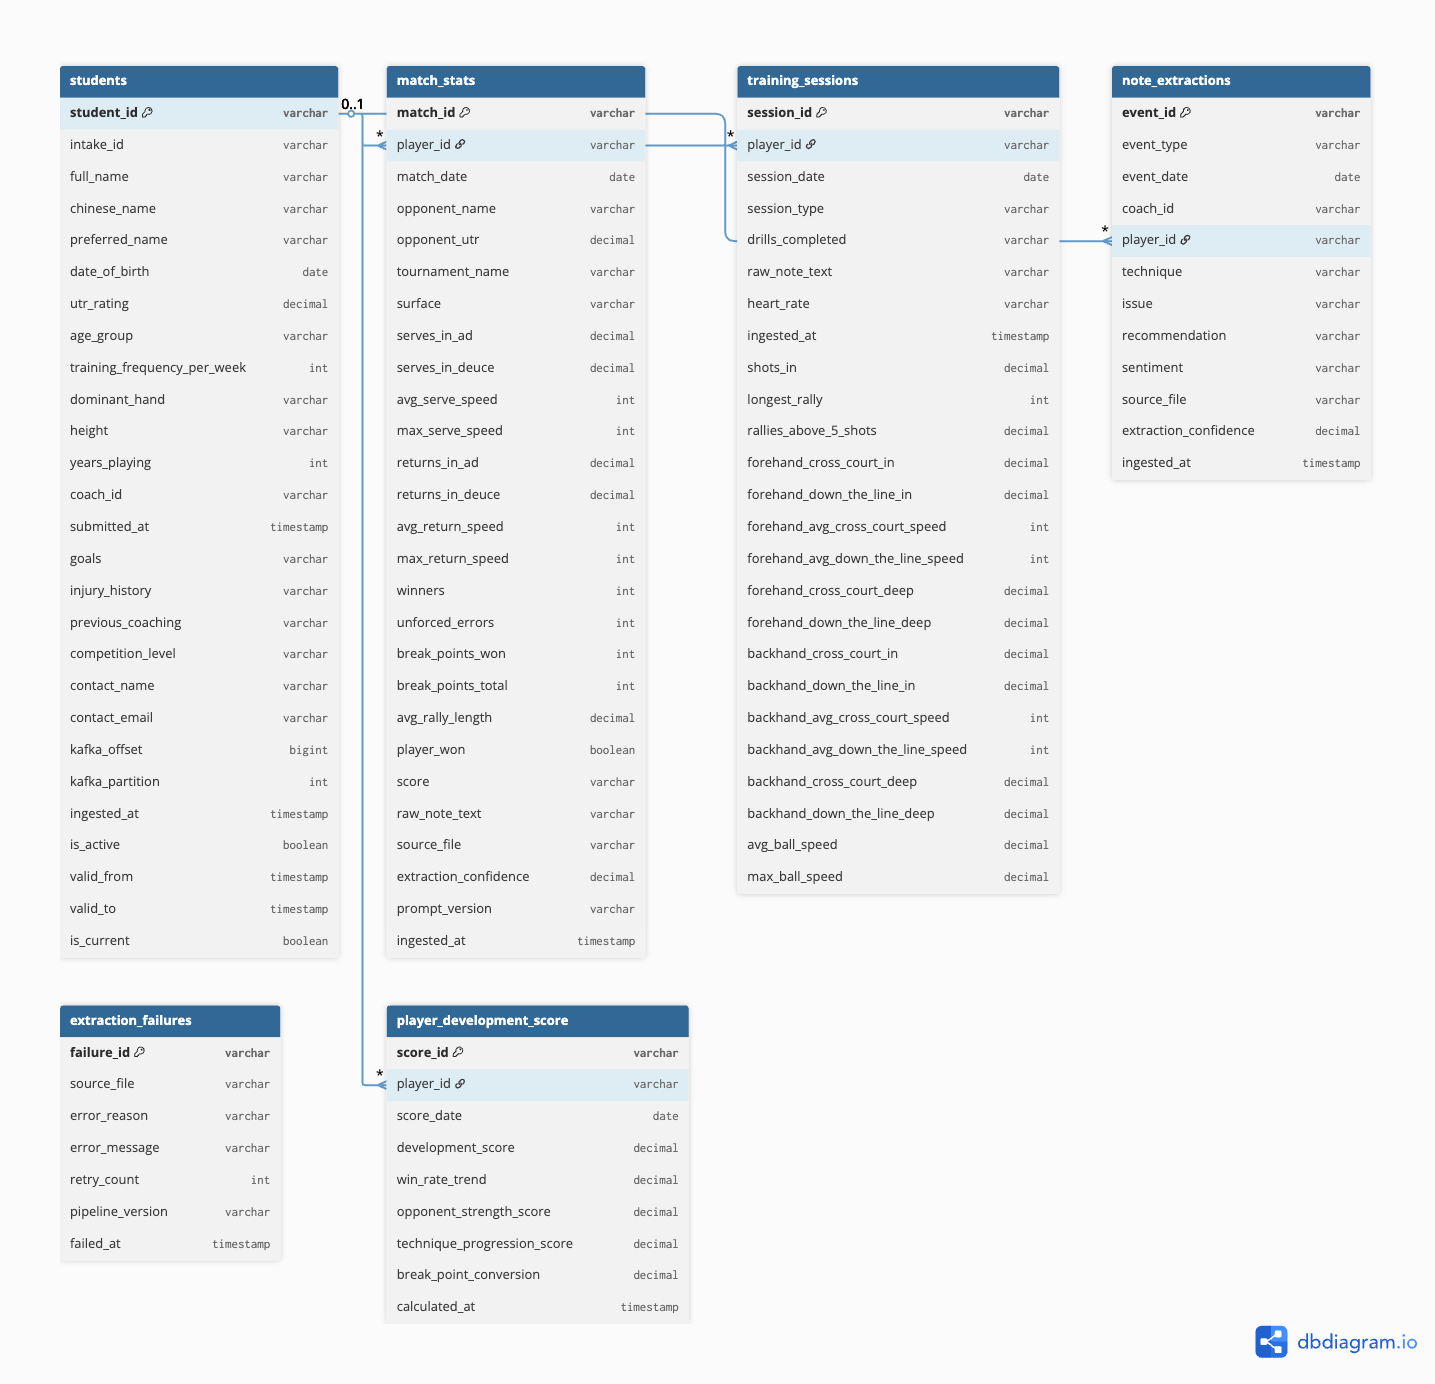
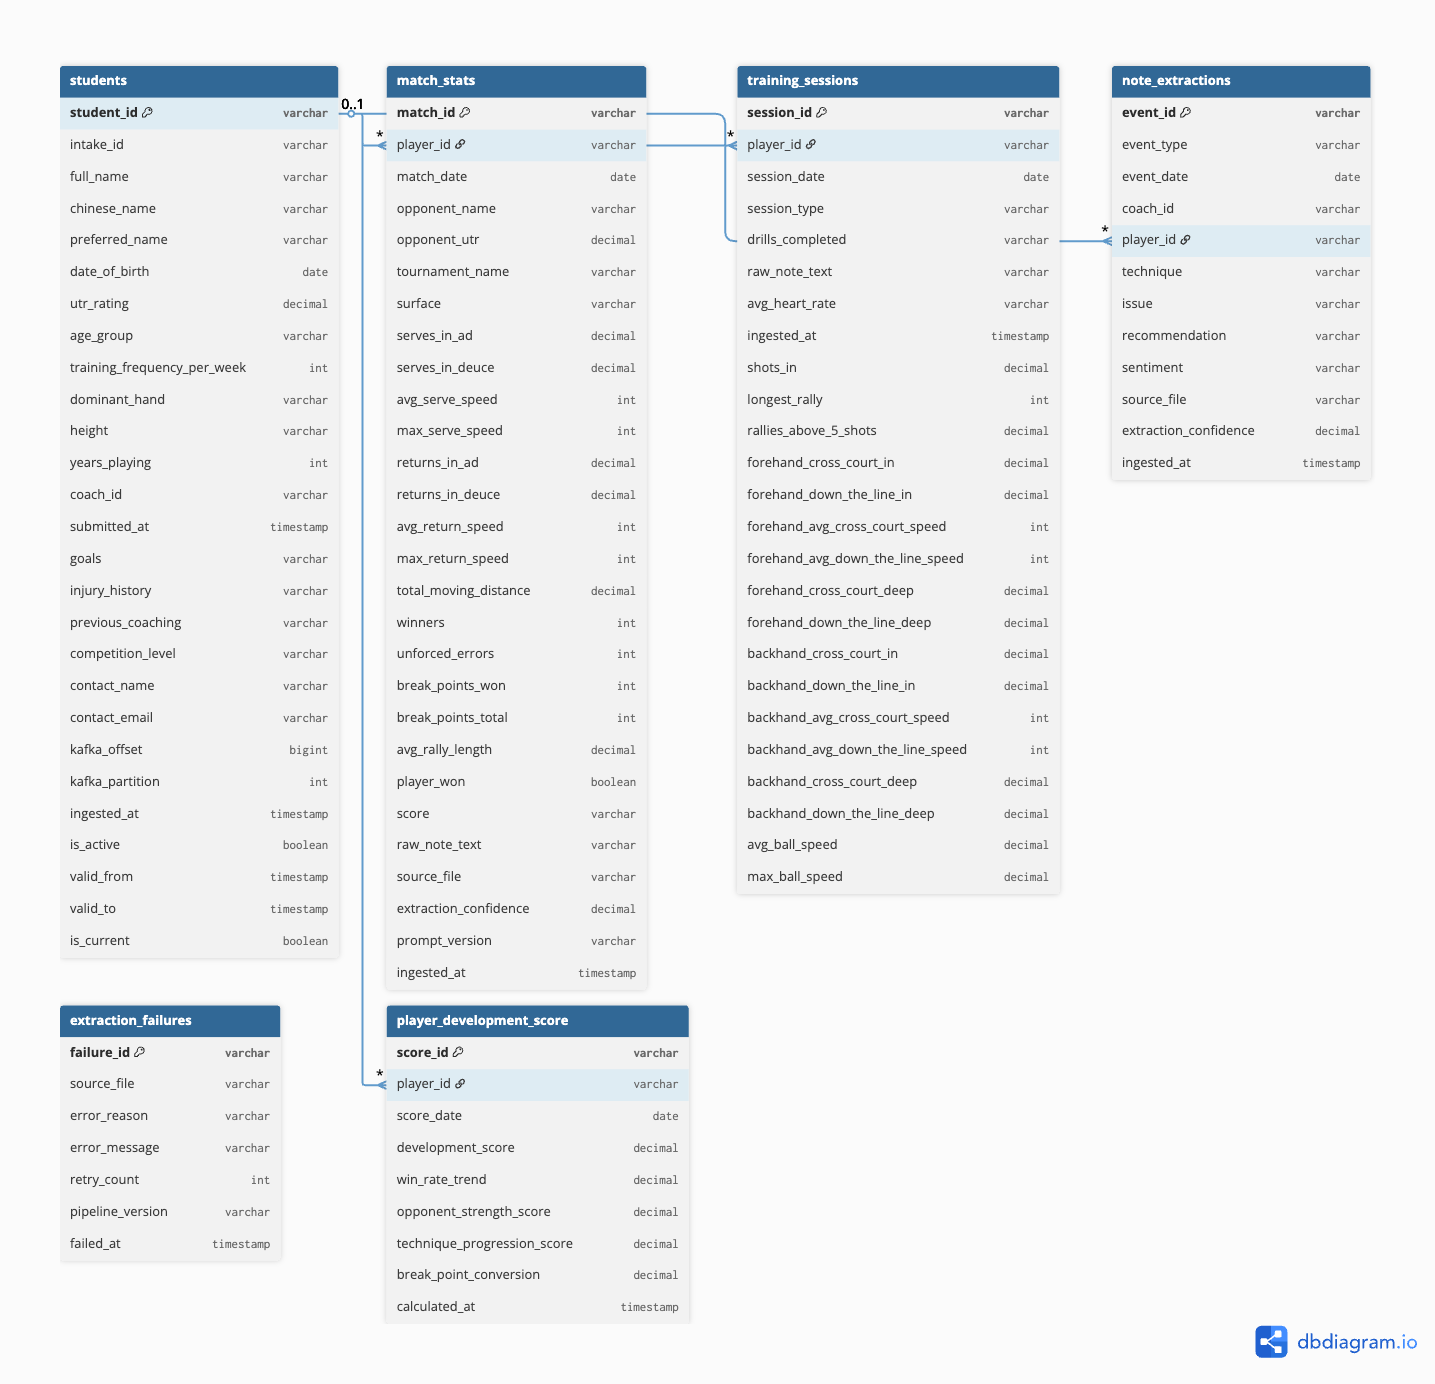
fix: resolve ruff unused variable and newline errors

diff --git a/scripts/generate_matches.py b/scripts/generate_matches.py
@@ -139,7 +139,6 @@ def generate_match_schedule(student: dict) -> list[dict]:
     """Generate a realistic match schedule for one student over 2 years."""
     matches      = []
     competition  = student["competition_level"]
-    utr          = student["utr_rating"]
 
     # Competitive players play more matches
     if competition == "competitive":

diff --git a/scripts/generate_training_sessions.py b/scripts/generate_training_sessions.py
@@ -120,7 +120,6 @@ def generate_session(student: dict, session_date: date) -> dict:
 
 def generate_session_schedule(student: dict) -> list[dict]:
     sessions    = []
-    competition = student["competition_level"]
     freq        = int(student["training_frequency_per_week"])
 
     current = START_DATE

diff --git a/docs/schema.md b/docs/schema.md
@@ -65,6 +65,7 @@ Also stores the coach's raw note text for that match.
 | `returns_in_deuce` | DOUBLE | Return accuracy on deuce side (0–1) |
 | `avg_return_speed` | INT | Average return speed |
 | `max_return_speed` | INT | Maximum return speed |
+| `total_moving_distance` | DOUBLE | Total distance covered by player during match |
 | `winners` | INT | Total winners hit |
 | `unforced_errors` | INT | Total unforced errors |
 | `break_points_won` | INT | Break points converted |
@@ -92,7 +93,7 @@ Also stores the coach's raw note text for that session.
 | `session_type` | STRING | Baseline / serve / volleys / fitness etc. |
 | `drills_completed` | STRING | Description of drills done |
 | `raw_note_text` | STRING | Coach's note for this session (nullable) |
-| `heart_rate` | STRING | Average heart rate during session |
+| `avg_heart_rate` | INT | Average heart rate during session (bpm) |
 | `shots_in` | DOUBLE | % of shots that landed in (0–1) |
 | `longest_rally` | INT | Longest rally in number of shots |
 | `rallies_above_5_shots` | DOUBLE | % of rallies exceeding 5 shots (0–1) |
@@ -123,11 +124,11 @@ One record per student. All intake form fields stored directly on this table.
 | `student_id` | STRING | Unique student ID (PK) |
 | `intake_id` | STRING | Unique intake submission ID |
 | `full_name` | STRING | Student full name |
-| `chinese_name` | STRING | Chinese name if applicable |
+| `chinese_name` | STRING | Chinese name if applicable (nullable) |
 | `preferred_name` | STRING | Name used in coaching |
 | `date_of_birth` | DATE | Date of birth |
 | `utr_rating` | DOUBLE | Self-reported UTR rating |
-| `age_group` | STRING | U10 / U12 / U14 / U16 / Adult |
+| `age_group` | STRING | U10 / U12 / U14 / U16 / U18 / Adult |
 | `dominant_hand` | STRING | Right / Left |
 | `height` | STRING | Student height |
 | `years_playing` | INT | Years of tennis experience |
@@ -137,7 +138,7 @@ One record per student. All intake form fields stored directly on this table.
 | `goals` | STRING | Student's stated goals |
 | `injury_history` | STRING | Known injuries |
 | `previous_coaching` | STRING | Prior coaching background |
-| `competition_level` | STRING | Recreational / competitive |
+| `competition_level` | STRING | competitive / recreational |
 | `contact_name` | STRING | Student or guardian contact name |
 | `contact_email` | STRING | Student or guardian contact email |
 | `kafka_offset` | BIGINT | Kafka message offset |
@@ -153,7 +154,7 @@ One record per student. All intake form fields stored directly on this table.
 ### bronze.note_extractions
 LLM-extracted observations from coach notes. Each record links to either
 a match or a training session via `event_id` + `event_type`.
-`raw_note_text` lives in the parent session table, not here.
+Raw note text lives in the parent session table, not here.
 
 | Column | Type | Description |
 |---|---|---|
@@ -200,9 +201,9 @@ Cleaned student profiles with SCD Type 2 history tracking.
 | `preferred_name` | STRING | Name used in day-to-day coaching |
 | `date_of_birth` | DATE | Typed and validated |
 | `utr_rating` | DOUBLE | Cleaned UTR rating |
-| `age_group` | STRING | U10 / U12 / U14 / U16 / Adult |
+| `age_group` | STRING | U10 / U12 / U14 / U16 / U18 / Adult |
 | `dominant_hand` | STRING | Right / Left |
-| `competition_level` | STRING | Recreational / competitive |
+| `competition_level` | STRING | competitive / recreational |
 | `coach_id` | STRING | Assigned coach |
 | `goals` | STRING | Student's stated goals |
 | `valid_from` | TIMESTAMP | When this version became active |
@@ -228,6 +229,9 @@ Cleaned match statistics. One row per match per player.
 | `max_serve_speed` | INT | Maximum serve speed |
 | `returns_in_ad` | DOUBLE | Validated 0–1 |
 | `returns_in_deuce` | DOUBLE | Validated 0–1 |
+| `avg_return_speed` | INT | Average return speed |
+| `max_return_speed` | INT | Maximum return speed |
+| `total_moving_distance` | DOUBLE | Total distance covered during match |
 | `winners` | INT | Validated non-negative |
 | `unforced_errors` | INT | Validated non-negative |
 | `break_points_won` | INT | Break points converted |
@@ -249,6 +253,7 @@ Cleaned training session data with shot statistics.
 | `session_date` | DATE | Type-cast session date |
 | `session_type` | STRING | Type of training session |
 | `raw_note_text` | STRING | Coach's note (nullable) |
+| `avg_heart_rate` | INT | Average heart rate during session (bpm) |
 | `shots_in` | DOUBLE | Validated 0–1 |
 | `longest_rally` | INT | Validated non-negative |
 | `rallies_above_5_shots` | DOUBLE | Validated 0–1 |
@@ -329,6 +334,9 @@ Partitioned by `match_year_month` for query performance.
 | `serves_in_ad` | DOUBLE | |
 | `serves_in_deuce` | DOUBLE | |
 | `avg_serve_speed` | INT | |
+| `returns_in_ad` | DOUBLE | |
+| `returns_in_deuce` | DOUBLE | |
+| `total_moving_distance` | DOUBLE | Total distance covered during match |
 | `winners` | INT | |
 | `unforced_errors` | INT | |
 | `break_points_won` | INT | |
@@ -351,6 +359,7 @@ Training session facts. Grain: one session × one player.
 | `player_sk` | STRING | FK to dim_players |
 | `session_date_key` | INT | YYYYMMDD format |
 | `session_type` | STRING | Type of training |
+| `avg_heart_rate` | INT | Average heart rate during session (bpm) |
 | `shots_in` | DOUBLE | |
 | `longest_rally` | INT | |
 | `rallies_above_5_shots` | DOUBLE | |
@@ -376,7 +385,7 @@ Flagship metric. One row per player per week.
 | `development_score` | DOUBLE | Composite score 0–100 |
 | `win_rate_trend` | DOUBLE | 40% weight component |
 | `opponent_strength_score` | DOUBLE | 30% weight component |
-| `technique_progression` | DOUBLE | 20% weight — from LLM sentiment trend |
+| `technique_progression` | DOUBLE | 20% weight — derived from LLM sentiment trend |
 | `break_point_conversion` | DOUBLE | 10% weight component |
 | `calculated_at` | TIMESTAMP | When score was computed |
 